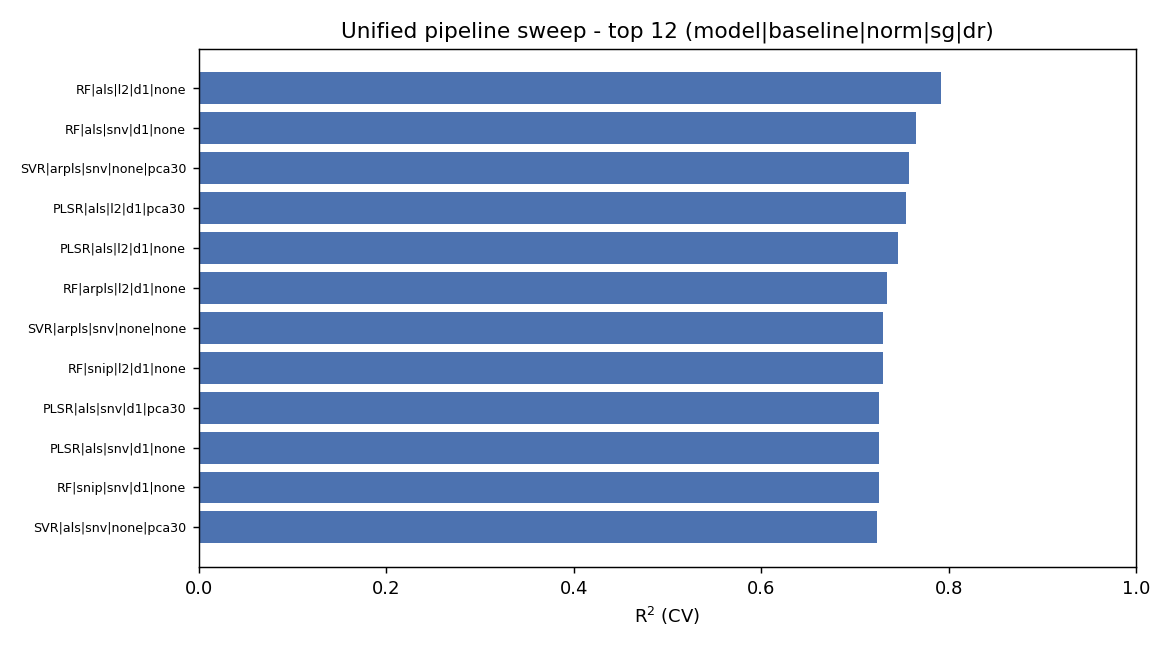
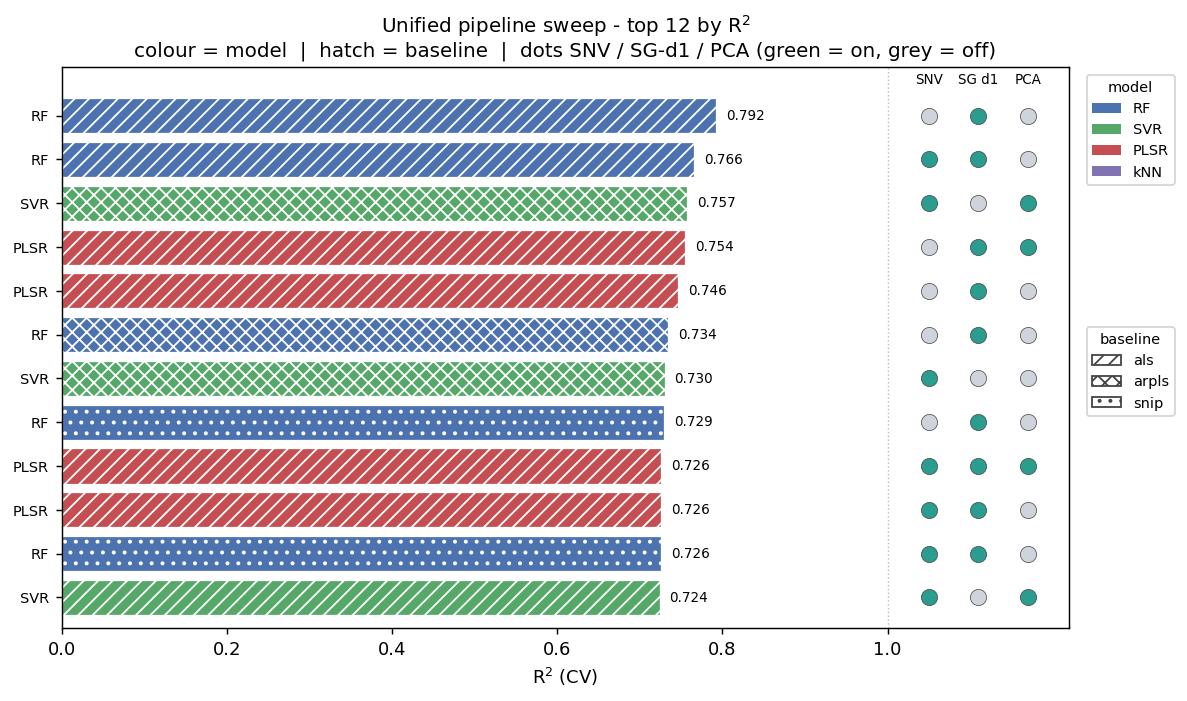
feat(plots): redesign pipeline sweep as a visual encoding
colour = model, hatch = baseline, three on/off dots (SNV / SG-d1 / PCA, green =
on, grey = off) replace the cryptic RF|als|l2|d1|none label. R2 printed in
black to the right of each bar. Model + baseline legends added.

diff --git a/scripts/run_pipeline.py b/scripts/run_pipeline.py
@@ -22,6 +22,7 @@ import sys
 import matplotlib
 
 matplotlib.use("Agg")
+import matplotlib.patches as mpatches
 import matplotlib.pyplot as plt
 import numpy as np
 
@@ -145,15 +146,47 @@ def main():
                   for k, v in params.items()}
             print(f"  best params: {pp}")
 
-    # plot top-12
-    top = df.head(12)
-    labels = [f"{r.model}|{r.baseline}|{r.norm}|{r.sg}|{r.dr}" for r in top.itertuples()]
-    fig, ax = plt.subplots(figsize=(9, 5))
-    ax.barh(range(len(top))[::-1], top["R2"], color="#4C72B0")
-    ax.set_yticks(range(len(top))[::-1]); ax.set_yticklabels(labels, fontsize=7)
-    ax.set_xlabel("R$^2$ (CV)"); ax.set_xlim(0, 1)
-    ax.set_title("Unified pipeline sweep - top 12 (model|baseline|norm|sg|dr)")
-    fig.tight_layout(); fig.savefig(os.path.join(PLOTS_DIR, "pipeline_sweep.png"), dpi=130)
+    # plot top-12: encode the whole pipeline visually instead of a cryptic
+    # "RF|als|l2|d1|none" label. colour = model, hatch = baseline, and three
+    # on/off dots = the toggle steps (SNV, SG 1st-derivative, PCA).
+    top = df.head(12).reset_index(drop=True)
+    n = len(top)
+    model_colors = {"RF": "#4C72B0", "SVR": "#55A868", "PLSR": "#C44E52", "kNN": "#8172B3"}
+    baseline_hatch = {"als": "///", "arpls": "xxx", "snip": ".."}
+    on_c, off_c = "#2a9d8f", "#cfd4dc"
+    dot_cols = [("SNV", "norm", "snv"), ("SG d1", "sg", "d1"), ("PCA", "dr", "pca30")]
+    dot_x = [1.05, 1.11, 1.17]
+
+    fig, ax = plt.subplots(figsize=(10, 5.6))
+    for i, r in enumerate(top.itertuples()):
+        y = n - 1 - i  # best at the top
+        ax.barh(y, r.R2, color=model_colors.get(r.model, "#999999"),
+                hatch=baseline_hatch.get(r.baseline, ""), edgecolor="white", linewidth=0.7)
+        ax.text(r.R2 + 0.012, y, f"{r.R2:.3f}", va="center", ha="left",
+                fontsize=7.5, color="black")
+        for (_, col, on_val), xx in zip(dot_cols, dot_x, strict=True):
+            engaged = getattr(r, col) == on_val
+            ax.scatter(xx, y, s=80, color=on_c if engaged else off_c,
+                       edgecolor="#444444", linewidth=0.4, zorder=5)
+    for (label, _, _), xx in zip(dot_cols, dot_x, strict=True):
+        ax.text(xx, n - 0.35, label, ha="center", va="bottom", fontsize=7.5)
+    ax.axvline(1.0, color="0.75", lw=0.8, ls=":")
+    ax.set_yticks(range(n)); ax.set_yticklabels(top["model"][::-1], fontsize=8)
+    ax.set_xlim(0, 1.22); ax.set_ylim(-0.7, n + 0.1)
+    ax.set_xticks([0, 0.2, 0.4, 0.6, 0.8, 1.0])
+    ax.set_xlabel("R$^2$ (CV)")
+    ax.set_title("Unified pipeline sweep - top 12 by R$^2$\n"
+                 "colour = model  |  hatch = baseline  |  dots SNV / SG-d1 / PCA "
+                 "(green = on, grey = off)", fontsize=11)
+    model_handles = [mpatches.Patch(facecolor=c, label=m) for m, c in model_colors.items()]
+    base_handles = [mpatches.Patch(facecolor="white", edgecolor="#444", hatch=h, label=b)
+                    for b, h in baseline_hatch.items()]
+    leg1 = ax.legend(handles=model_handles, title="model", loc="upper left",
+                     bbox_to_anchor=(1.01, 1.0), fontsize=8, title_fontsize=8)
+    ax.add_artist(leg1)
+    ax.legend(handles=base_handles, title="baseline", loc="upper left",
+              bbox_to_anchor=(1.01, 0.55), fontsize=8, title_fontsize=8)
+    fig.savefig(os.path.join(PLOTS_DIR, "pipeline_sweep.png"), dpi=130, bbox_inches="tight")
     print("\nSaved benchmarks/results/pipeline_sweep.csv + plots/pipeline_sweep.png")
 
 
